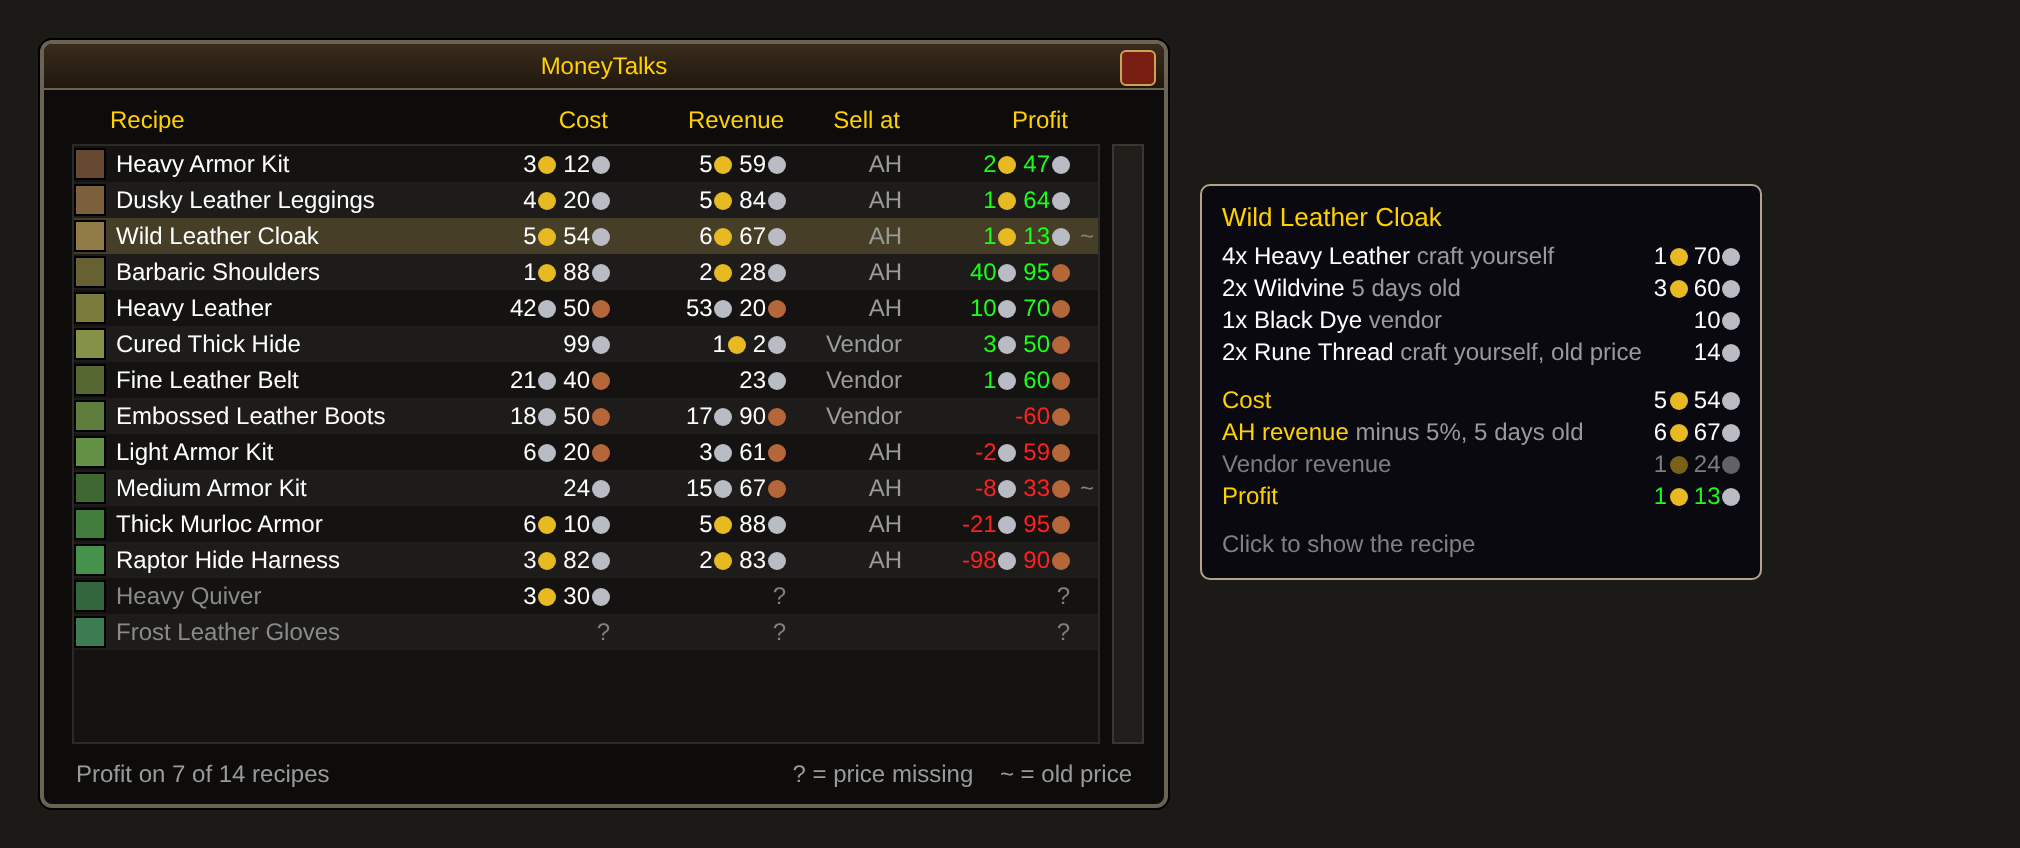
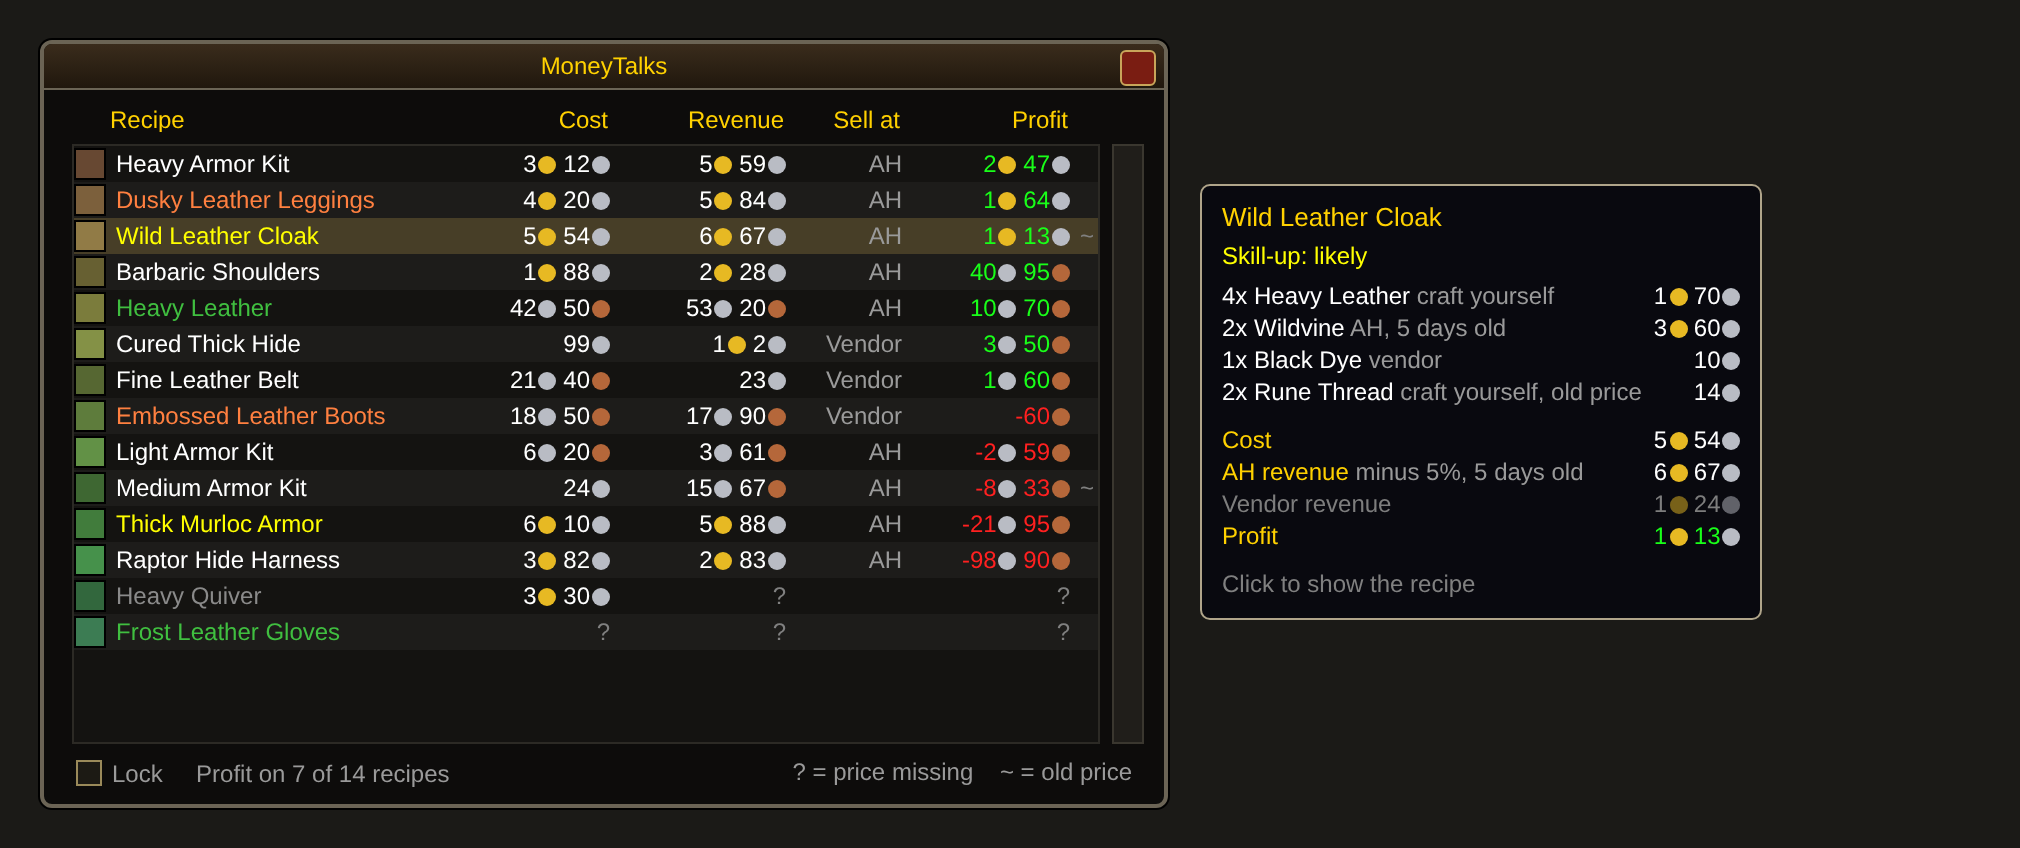
Make the window movable and lockable, show price sources and skill-ups
- drag the window by its title bar; a Lock checkbox fixes it; position
  and lock are saved account-wide. The default position leaves room for
  the profession tabs on the right of the profession window.
- every material in the tooltip now names the source of its cheapest
  price, including AH
- recipe names are coloured like the profession window when the recipe
  can give a skill-up; the tooltip states the chance
- version 0.4.0

Claude-Session: https://claude.ai/code/session_01LT36tgmBxZNT1WaUhQ99jV

diff --git a/README.md b/README.md
@@ -15,6 +15,8 @@ the highlighted row.*
 - Prices each material by the cheapest route: auction house, vendor, or crafting it
   yourself, across several steps.
 - Flags profits that rely on old auction house prices.
+- Shows whether a recipe can still give a skill-up.
+- The window can be moved anywhere and locked in place.
 - German texts on a German client, English texts on every other client.
 
 ## Requirements
@@ -39,7 +41,8 @@ Restart the game completely afterwards. A `/reload` does not pick up new addons.
 1. Open the auction house once so Auctionator has prices. To keep them fresh, turn on
    the autoscan in the Auctionator options (`/atr config`, basic options).
 2. Open each of your professions once. MoneyTalks remembers their recipes.
-3. The list appears next to the profession window whenever you open a profession.
+3. The list appears next to the profession window whenever you open a profession. Drag
+   it by its title bar to where you want it.
 
 ## Reading the list
 
@@ -55,10 +58,20 @@ The list is sorted by profit, the best recipe is at the top.
 - `?` means a price is missing. These recipes are greyed out at the end of the list.
 - `~` after the profit means one of the auction house prices used is older than 3 days,
   so the profit is less reliable.
-- Hover a row to see the cost of each material and both sale routes. A grey note after
-  a material says where it is cheapest (`vendor`, `craft yourself`) and how old an old
-  price is. The worse of the two sale routes is greyed out.
+- A coloured recipe name means the recipe can give a skill-up, with the same colours as
+  the profession window: orange is guaranteed, yellow is likely, green is unlikely. A
+  white name gives no skill-up.
+- Hover a row to see the skill-up chance, the cost of each material and both sale
+  routes. A grey note after every material says where its cheapest price comes from
+  (`AH`, `vendor` or `craft yourself`) and how old an old price is. The worse of the two
+  sale routes is greyed out.
 - Click a row to show the recipe in the profession window.
+
+## Moving the window
+
+Drag the window by its title bar or its edge. Tick **Lock** at the bottom left to fix it
+in place, untick it to move it again. Position and lock are remembered for all your
+characters. Once moved, the window no longer follows the profession window.
 
 ## Commands
 
